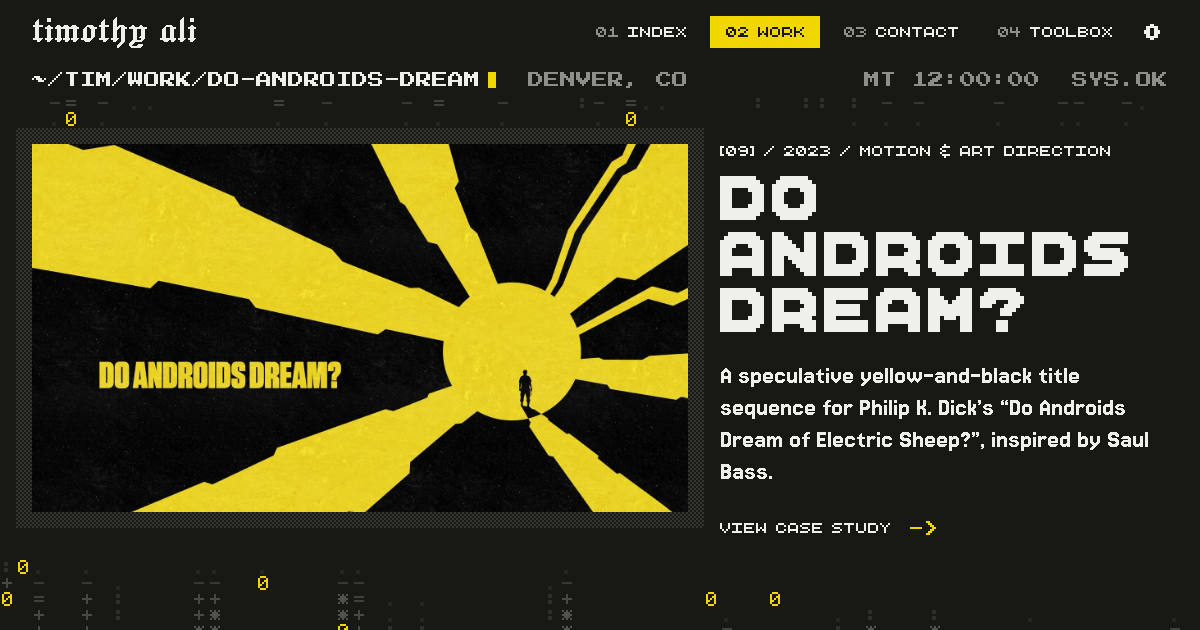
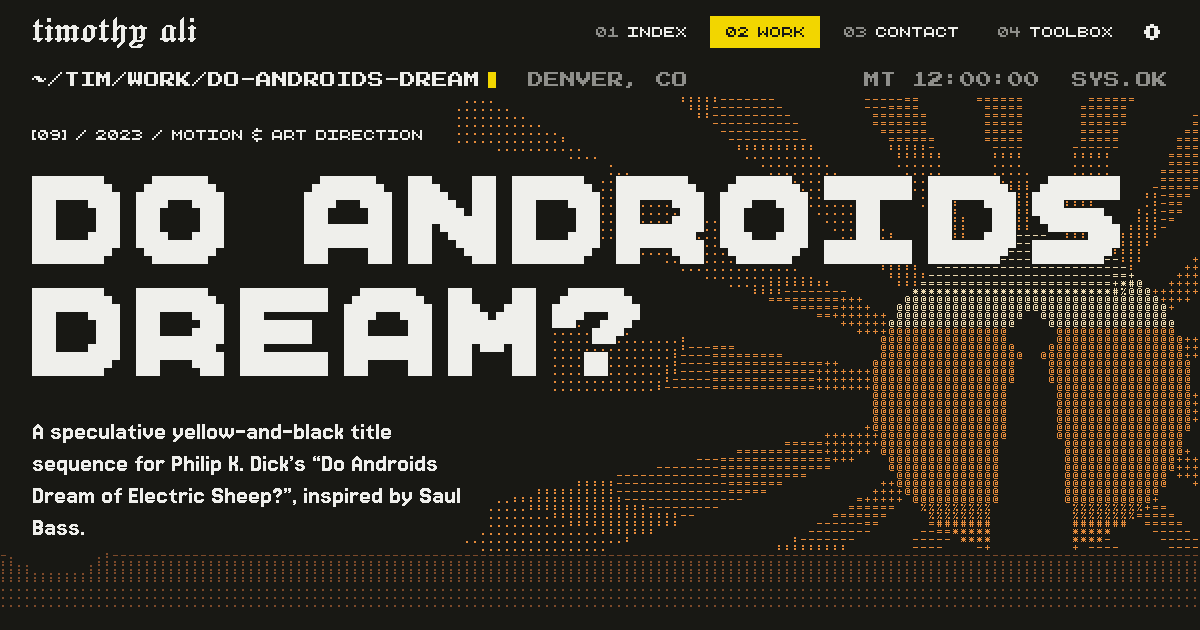
Share images in the scene world (PX-82, 0183)
Home, Work, Contact and the nine studies are drawn on the scene field; each study
image is its page head over its own scene. Toolbox's images keep their look.

diff --git a/src/routes/og/[id]/+page.svelte b/src/routes/og/[id]/+page.svelte
@@ -11,6 +11,7 @@
   import MetaLine from '$lib/components/MetaLine.svelte';
   import Picture from '$lib/components/Picture.svelte';
   import { projects, last } from '$lib/work';
+  import { hasStudyScene } from '$lib/studyScenes';
   import { APP } from '$lib/toolbox';
   import { STEP, STEP_SLOW } from '$lib/tokens';
   import { onMount } from 'svelte';
@@ -40,7 +41,7 @@
 <svelte:head><title>og/{data.id}</title><meta name="robots" content="noindex" /></svelte:head>
 <main class="og" class:story={data.id === 'story'} class:wide={data.id === 'wide'} id="main" tabindex="-1">
   {#if data.id === 'home'}
-    <Band class="og-home" mode="sky" seed={3} density={1.3} shade avoid=".og-line, .og-name">
+    <Band class="og-home" mode="scene" shot="hero" sceneSpan="box" mountains="a" seed={3} palette="scene" cell={8} px={1} hug pad={0} feather={3} depth={0.6} avoid=".og-line, .og-name > :first-child">
       <p class="display og-line">Product designer.</p>
       <h1 class="blackletter og-name"><Decode text="i’m tim." /><Cursor size="em" /></h1>
     </Band>
@@ -55,7 +56,7 @@
       <Cta href="https://www.timothyali.com" class="lbl story-cta">timothyali.com <Arrow /></Cta>
     </Band>
   {:else if data.id === 'work'}
-    <Band class="og-work" mode="fall" seed={5} density={0.7} shade avoid=".og-head > *, .og-covers">
+    <Band class="og-work" mode="scene" shot="strip" sceneSpan="box" mountains="a" seed={5} palette="scene" cell={8} px={1} hug pad={0} feather={3} depth={0.6} avoid=".og-head h1" clear=".og-head > :last-child">
       <div class="og-head">
         <h1 class="blackletter display-xl">work.</h1>
         <IndexRow label="Project index" value={`01–${last}`} layout="column" accent />
@@ -65,7 +66,7 @@
       </div>
     </Band>
   {:else if data.id === 'contact'}
-    <Band class="og-contact" mode="fall" seed={3} density={0.55} shade avoid=".og-top > span, .og-contact h1 > span">
+    <Band class="og-contact" mode="scene" shot="rise" sceneSpan="box" seed={3} palette="scene" cell={8} px={1} hug pad={0} feather={3} depth={0.6} avoid=".og-contact h1 > span" clear=".og-top > span">
       <div class="og-top lbl"><span>Let’s talk</span><span>Timothy Ali / Denver, CO</span></div>
       <h1><span class="display">Tell me what<br />you’re</span><span class="blackletter display-xl">building.</span></h1>
     </Band>
@@ -101,16 +102,12 @@
     </Band>
   {:else if data.project}
     {@const p = data.project}
-    <Band class="og-study" mode="fall" seed={5} density={0.7} shade avoid=".og-row > *">
-      <div class="row og-row" bind:this={row} style:padding-top="{rowTop}px">
-        <div class="frame"><Picture src={p.cover.src} alt="" width={p.cover.w} height={p.cover.h} eager /></div>
-        <div class="row-body">
-          <MetaLine project={p} />
-          <h1 class="display" class:small bind:this={h1}><span class="probe" aria-hidden="true" bind:this={probe}>{longest}</span>{p.title}</h1>
-          <p class="body">{p.description}</p>
-          <Cta variant="quiet" class="lbl">View case study <Arrow /></Cta>
-        </div>
-      </div>
+    <!-- The study page's head at share size (0183): its own scene across the frame, the meta
+         line, the title, the one-line description. -->
+    <Band class="og-sh" mode="scene" shot="strip" sceneSpan="box" mountains={hasStudyScene(p.slug) ? '' : 'a'} study={hasStudyScene(p.slug) ? p.slug : ''} seed={Number(p.n) || 3} palette="scene" cell={8} px={1} hug pad={0} feather={3} depth={0.6} avoid=".og-sh h1 .t" clear=".og-sh .og-meta, .og-sh .og-desc">
+      <MetaLine project={p} class="og-meta" />
+      <h1 class="display og-sh-title" class:small bind:this={h1}><span class="probe" aria-hidden="true" bind:this={probe}>{longest}</span><span class="t">{p.title}</span></h1>
+      <p class="body og-desc">{p.description}</p>
     </Band>
   {/if}
 </main>
@@ -168,7 +165,14 @@
 /* Tool — the study row with the tool's own head */
 .og-tool-n{color:var(--accent-text);text-wrap:balance}
 
-/* Study — the Work row, centred in the frame */
+/* Study — the study page's head: meta, title at the page's desktop size, description */
+.og :global(.og-sh){display:flex;flex-direction:column;align-items:flex-start;gap:var(--s2);padding-top:var(--s4)}
+.og-sh-title{position:relative;align-self:stretch;font-size:110px;line-height:112px;margin-top:var(--s2)}
+.og-sh-title.small{font-size:82.5px;line-height:88px}
+.og-sh-title .probe{position:absolute;visibility:hidden;white-space:nowrap;pointer-events:none}
+.og-desc{max-width:40ch}
+
+/* Study — the Work row, centred in the frame (tool images) */
 .og-row{height:100%;align-content:start}
 .og-row .frame{background:var(--surface-card)}
 .og-row h1{position:relative}

diff --git a/docs/decision-log.md b/docs/decision-log.md
@@ -2239,3 +2239,11 @@ Seeing it, Timothy asked for “slightly darker”. Five candidates were rendere
 - **Decision:** the skyline is drawn: every building outlined, a solid front row with windows on the cell grid (some lit, coming and going), stepped crowns and masts with a lit tip on the roofline, a paler outlined row behind with a few windows. The giant planet behind the city is gone; the clock tower stands right of the title. Both themes.
 - **Assistant's choices inside it:** the weights, heights, crown and mast rules, dropping the giant, moving the tower from 72% to 84% of the width.
 - **Status:** his direction; built, committed with PX-71 to PX-80 on his “commit and push it”.
+
+## 0183 — Share images in the scene world
+
+- **Date:** 2026-10-13
+- **Direction:** Timothy: “redo the share images” (after the assistant flagged that they still showed the old yellow ASCII field).
+- **Decision:** Home, Work, Contact and the nine study images are drawn on the scene field, each mirroring its page: Home the hero scene behind “Product designer.” and “i’m tim.”; Contact the rising planet; Work the four cards over the mountain strip; each study its page head (meta line, title, one-line description) over its own study scene, in place of the cover-and-text row. Toolbox's six images keep their look, as the Toolbox pages kept theirs. Still rendered dark, by `/og/[id]`.
+- **Assistant's choices inside it:** dropping the cover from the study images, the Work strip, the knockout settings (hug, depth 0.6, the same as the pages).
+- **Status:** his direction; the compositions are assistant proposals, committed and pushed on his “commit and push it” (2026-10-13).

diff --git a/docs/iteration-log.md b/docs/iteration-log.md
@@ -811,3 +811,7 @@ Contact: `avoid=".contact-foot"`, `feather={4}`; 404: no `avoid`. Readability no
 On Timothy's “the city itself is hard to read as a city” (light mode): the `city` scene in `src/lib/studyScenes.ts` now outlines every building (edge cells found by sampling one cell either side), puts windows on the cell grid (every third cell), solid front row at .92 with lit windows in cream/orange, crowns and masts, paler back row (.2 fill, .6 outline). The giant is removed; the clock tower moves to 84%. Before: the rows were .42/.28 dither with no edges and read as texture. Evidence: `docs/iterations/pixel-v2/81-city/compare.png` (1440 light/dark, 390 light/dark).
 
 Deploy (2026-10-13): PX-71 to PX-81 pushed as `24ebb46` on Timothy's “commit and push it”; live on https://www.timothyali.com about 3.5 min later. Home, Contact, `/work/pocketwatch/`, `/work/firstledger/` and the hosted résumé answered 200 with the new copy.
+
+## PX-82 — Share images in the scene world (2026-10-13, 0183)
+
+`src/routes/og/[id]/+page.svelte`: `home`, `work`, `contact` and every `work-<slug>` Band is `mode="scene"` with `sceneSpan="box"` and the pages' knockout settings; study images are the study head (MetaLine, title at 110/112 or 82.5/88 when its longest word will not fit, description) over `study={slug}`. A `clear` of `:first-child` would have matched the Band's own field container and blanked it, so the meta line carries `og-meta`. Twelve PNGs regenerated (`pnpm social:generate`); Toolbox's six, the favicon set and the story/wide stills are unchanged. `pnpm build && pnpm social:verify` pass. Contact sheet: `docs/iterations/pixel-v2/82-share-scenes/contact-sheet.png`.

diff --git a/tools/social/README.md b/tools/social/README.md
@@ -12,7 +12,8 @@ colours and project covers come from this repository; no external service is use
 - Apple touch icon: 180×180.
 - Home / Contact: blackletter and PARC Pixel type; Work: selected four-cover collage.
 - Nine study images, `work-<slug>.png` (0132: the Toolbox study and the Toolbox page would
-  otherwise both be `toolbox.png`): project cover, title, scope, year, and site chrome.
+  otherwise both be `toolbox.png`): the study page's head over its own scene (0183): meta
+  line, title, description, and site chrome. Home, Work and Contact are on the scene field too.
 - Toolbox (0110): the landing's hero (`toolbox`), the agents page head with the
   `toolbox --mcp` plate (`toolbox-agents`), and one Work-row composition per tool with
   the app's own screen in the frame (`toolbox-<slug>`), from the `tools` export.
